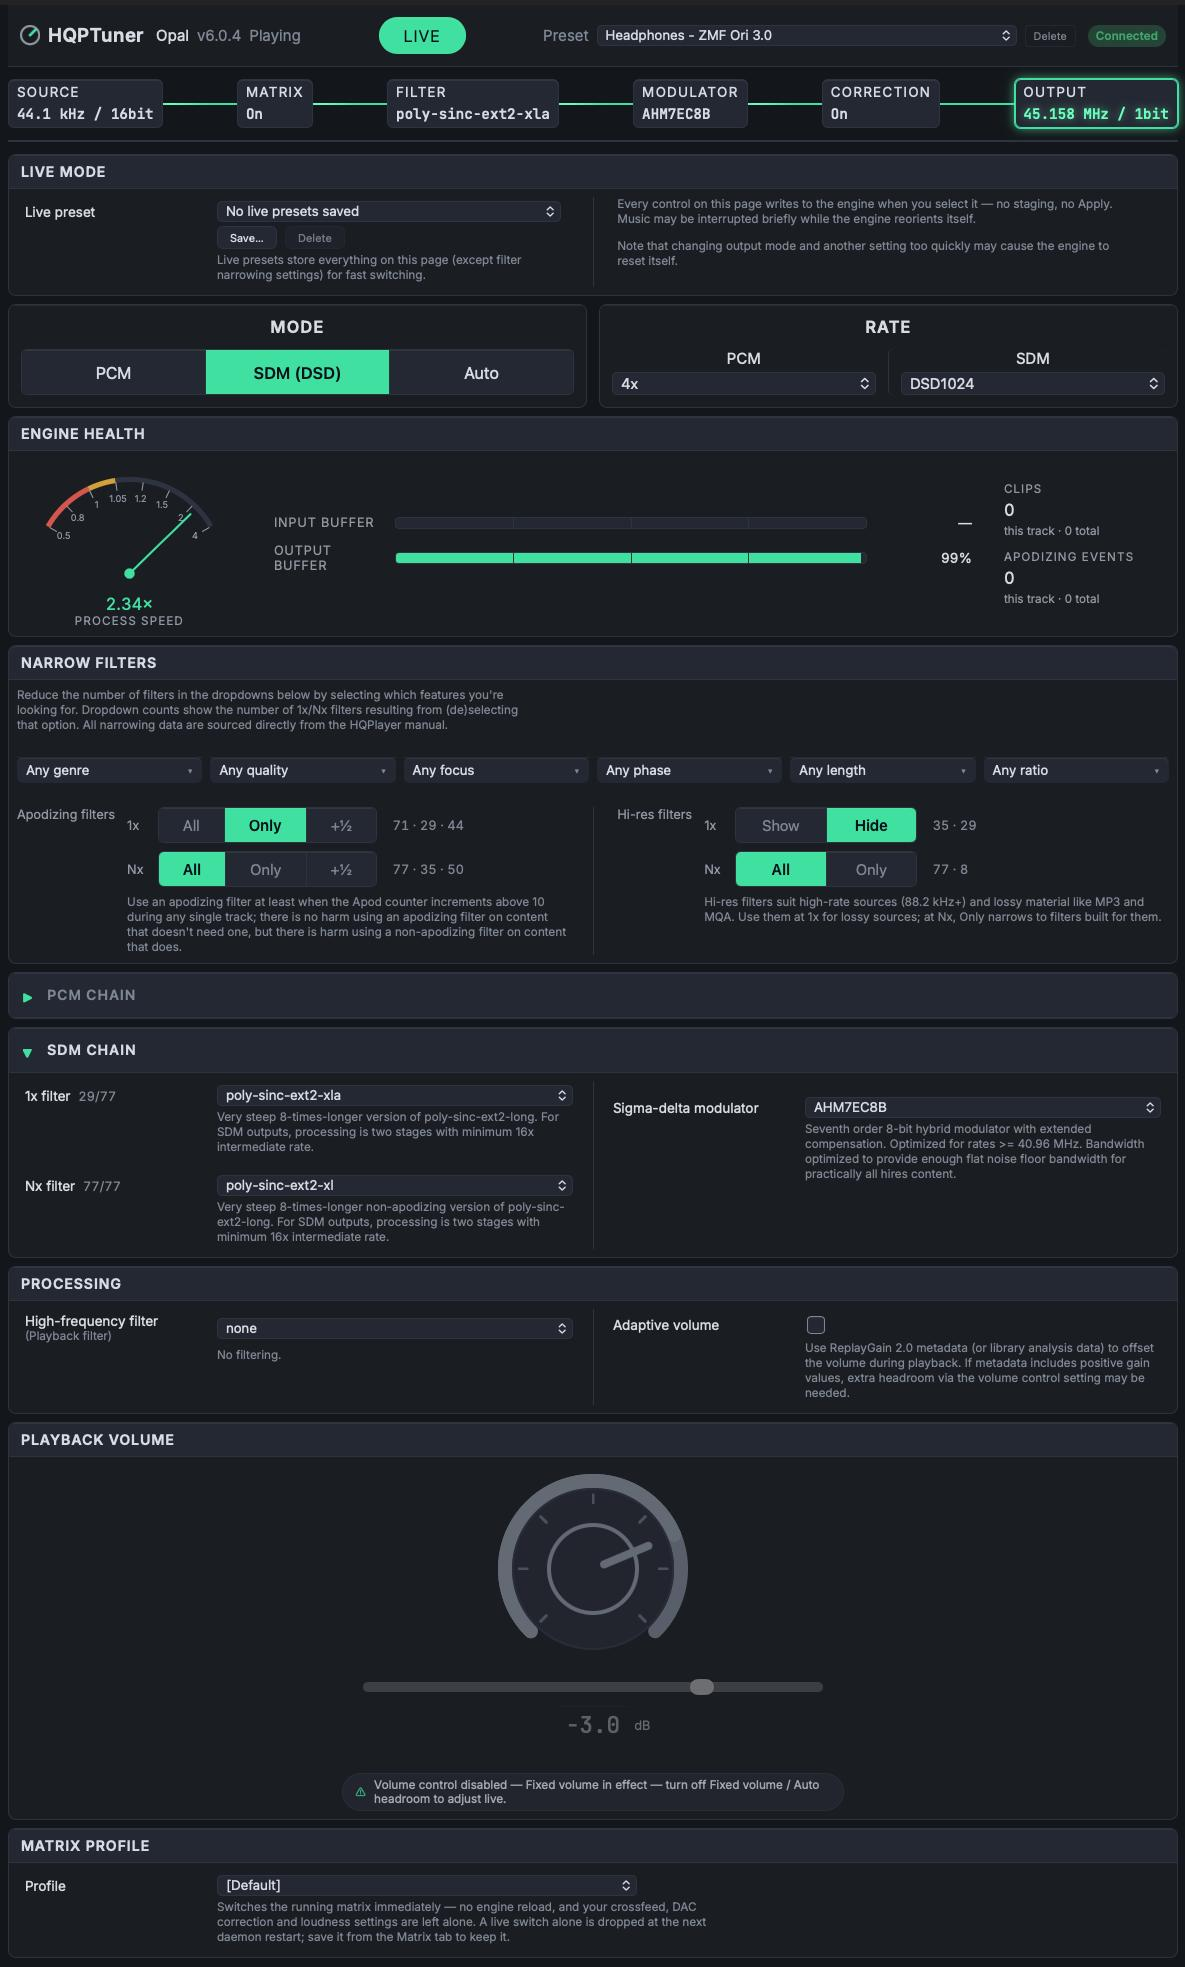
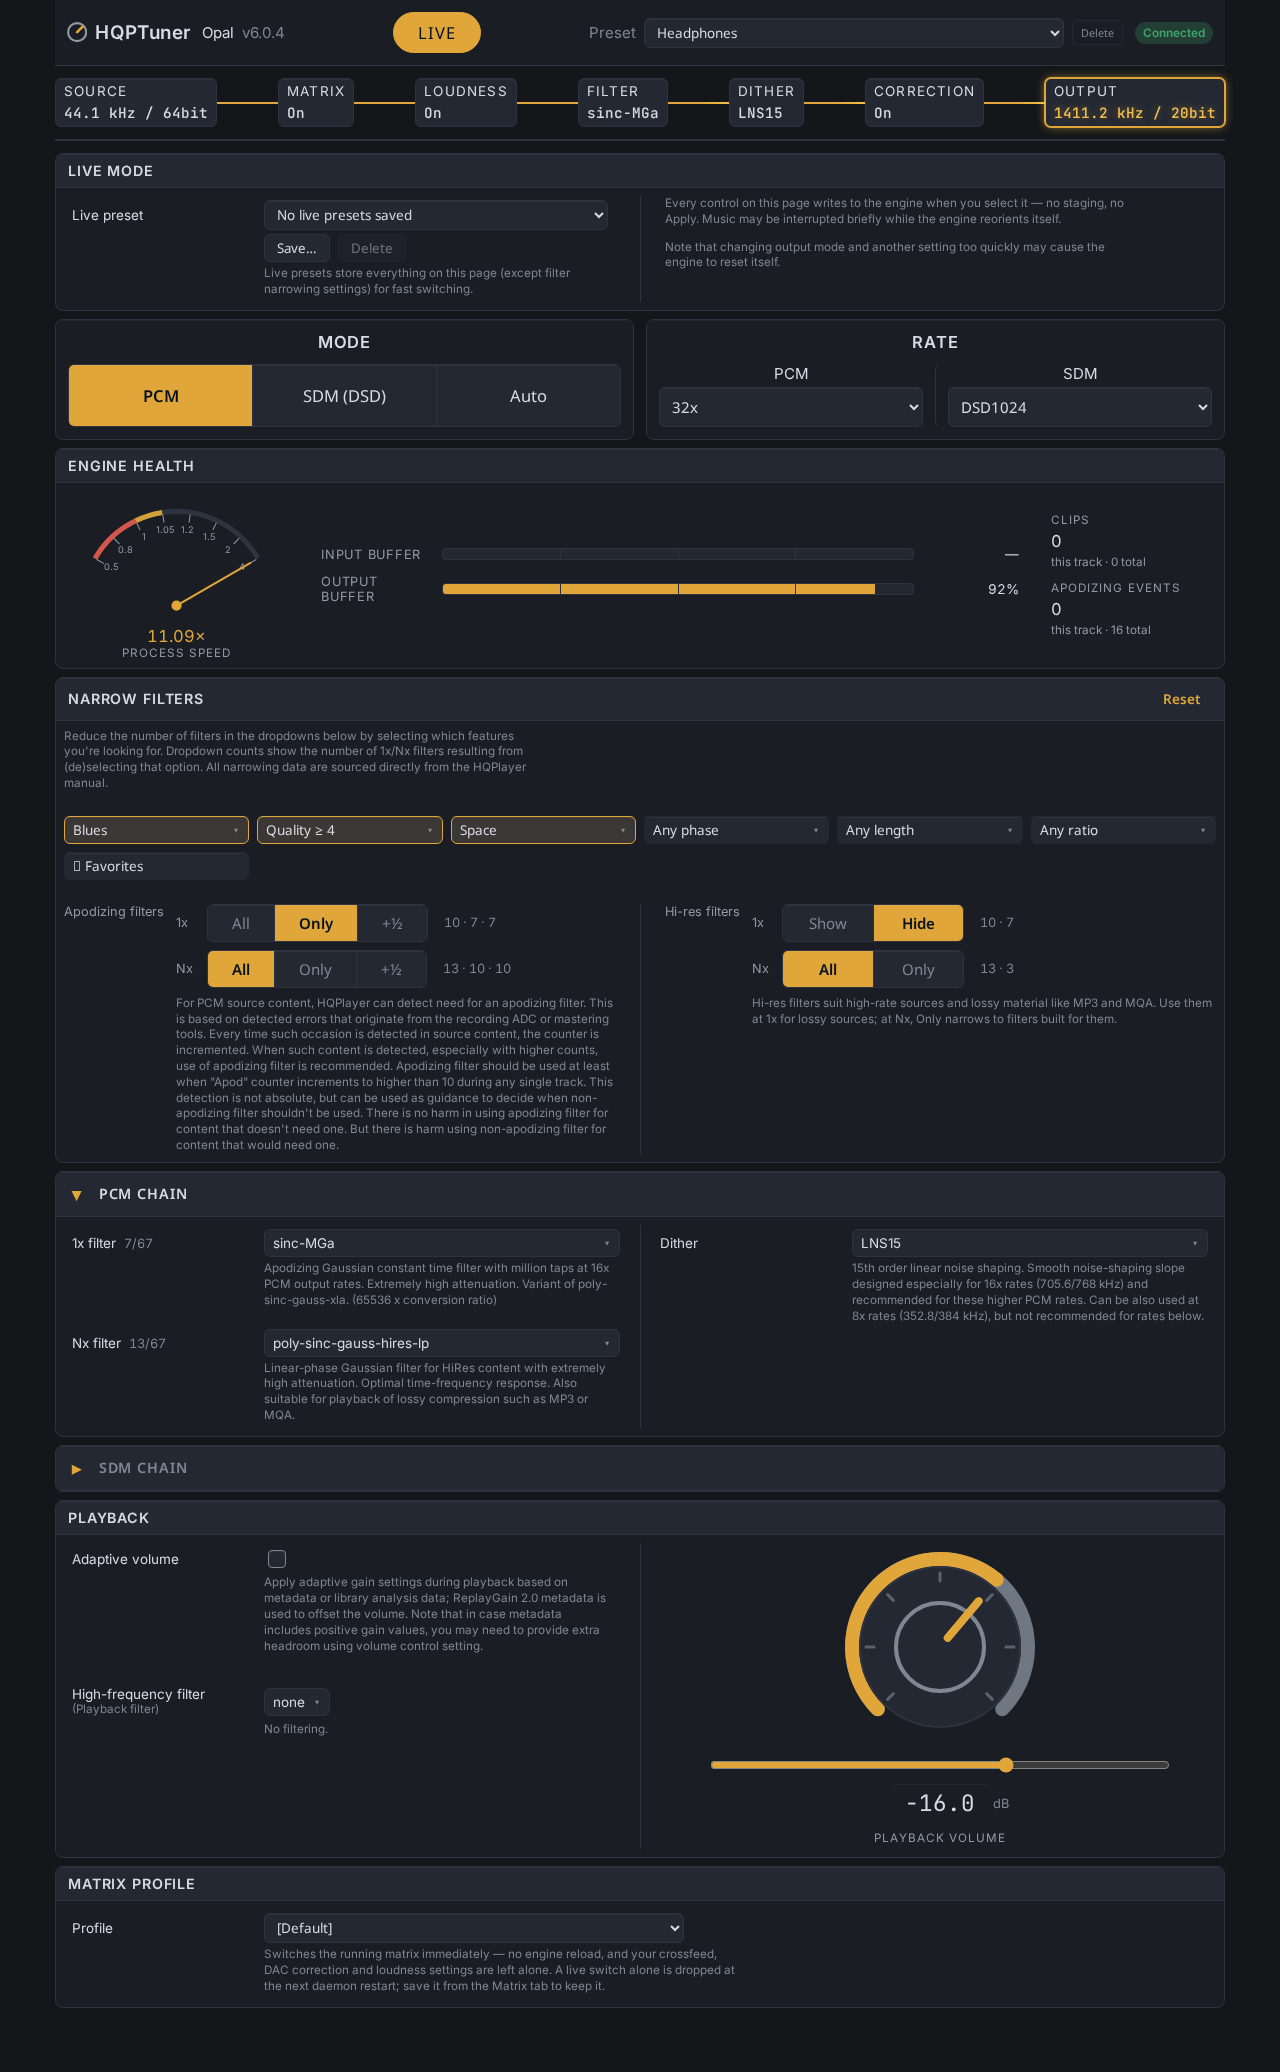
docs(readme): re-shoot screenshots for the four-tab layout
Replaces the Output, LIVE, and Matrix screenshots and adds a Volume one, each full-page at 1280 wide with a different accent and a different playback chain: Output green on 192kHz/24bit to DSD512, Volume blue on 44.1kHz to DSD1024, LIVE amber on 44.1kHz to PCM 32x, Matrix violet on 96kHz to 192kHz.

README text follows: the tab list drops Resampling and Loudness (folded into Output and Volume), captions are rewritten to name the chain in frame, and the accent picker gets a bullet.

diff --git a/README.md b/README.md
@@ -4,7 +4,7 @@ A polished and enhanced configuration interface for HQPlayer Embedded.
 
 ![The Output tab during DSD512 playback](docs/images/hqptuner-v1-output.png)
 
-*The Output tab during DSD512 playback: live signal path across the top, an advisory reading the source's noise profile, Backend / Mode / Rate master switches, and every setting explained in place.*
+*The Output tab, converting a 192kHz/24bit source to DSD512.*
 
 ## Inspiration
 
@@ -35,24 +35,29 @@ HQPTuner offers the following features and improvements over the stock web confi
 The above three features are my flagships, but the following benefits are offered as well:
 
 * **Surface the manual's knowledge**: Every feature has its manual's description printed right underneath it. This can be converted to hover tips for those who prefer a cleaner interface.
-* **More sensible organization**: Settings are organized into five tabs: Output, Volume, Resampling, Matrix, and System.
+* **More sensible organization**: Settings are organized into four tabs: Output, Volume, Matrix, and System. Stop wondering where to find a certain feature.
 * **Easier rate selection**: No more memorizing raw Hz values: select, e.g., PCM 4x or DSD512 from the output rate menu.
 * **Idiot proofing**: Only see options that are appropriate for the settings you're running. Don't waste time trying to figure out the best Integrator if you're only outputting PCM. Running DSD512? Modulators that only work at DSD1024 are grayed out.
 * **Full matrix pipeline editing**: Visual signal-flow editing of matrix pipelines, with a stage editor for every plugin type, headphone EQ import, and live response plots.
 * **Live response plots**: Crossfeed, loudness, and matrix pipelines all render their frequency response as you adjust them — and EQ bands are draggable dots right on the plot, REW-style.
 * **Live volume control**: For those who rely on HQPlayer for volume adjustment.
-* **LIVE mode**: A switch at the top drops the tabs for a single page of everything the running engine can change in place — mode, rate, both filter chains, dither, volume, matrix profile. No Apply: each control writes when you change it. Save the lot as a **live preset** and load it back in one click, output mode included, so a DSD preset applies while PCM is playing by switching the engine over. Nothing on the page is saved to the configuration; it lasts until the daemon restarts.
+* **LIVE mode**: A switch at the top drops the tabs for a single page of everything the running engine can change in place — mode, rate, both filter chains, dither, volume, matrix profile. No Apply: each control writes when you change it. Save the lot as a **live preset** and load it back in one click.
 * **Exposes more options**: Critical hardware acceleration options like multicore DSP, CUDA mode, and E-core modes are all exposed and explained.
 * **Consistent behavior**: No unexpected profile switches or surprise default profile loads; HQPTuner always comes back with the settings you sent.
 * **Log tail in the browser**: The daemon's log, right in the System tab.
+* **Customizable accent color**: Choose from one of four presets, or roll your own with a hex code.
+
+![The Volume tab](docs/images/hqptuner-v1-volume.png)
+
+*The Volume tab.*
 
 ![LIVE mode](docs/images/hqptuner-v1-live.png)
 
-*LIVE mode: engine health, filter narrowing with live per-dropdown counts, both filter chains, playback volume, and matrix profile on one page. No Apply — every control writes as you change it.*
+*LIVE mode. Every control on the page writes to the engine when changed; there is no Apply.*
 
 ![The Matrix tab](docs/images/hqptuner-v1-matrix.png)
 
-*The Matrix tab: sixteen structural-crossfeed pipelines carrying a headphone EQ, the crossfeed model's geometry readout, and the combined result on the Matrix Response plot — each EQ band a draggable dot, with a knob row for the selected one.*
+*The Matrix tab. Sixteen structural-crossfeed pipelines carrying a headphone EQ; the Matrix Response plot at the bottom shows the combined result.*
 
 ## Drawbacks of HQPTuner
 
@@ -194,35 +199,6 @@ All knobs are environment variables (see `hqptuner/config.py`):
 | `HQPTUNER_FAVORITES_FILE` | `state/favorites.json` | Starred filter names, one JSON file shared by every browser |
 | `HQPTUNER_DEBUG_LOG` | unset (off) | Path to the append-only event log. Unset means no file and no records. Set it to record every durable write — staged edits, applies, profile writes, preset writes — as JSON Lines, e.g. `/state/audit.jsonl` in the container |
 | `HQPTUNER_LOG_LEVEL` | `INFO` | Level for ordinary prose logging. A level name, not a number; an unparseable value falls back to `INFO` rather than refusing to start |
-
-## Development
-
-Backend and frontend carry matching gate suites. Run `npm install` once alongside the venv — the JS tooling is dev-only and never ships. The Python dev tools are the `dev` extra:
-
-```sh
-.venv/bin/pip install -e ".[dev]"
-```
-
-
-* `make check` — everything below. Must be green before every commit.
-* `make lint` — Python: ruff, black, xenon complexity, vulture, strict mypy, file-length and test-assertion checks.
-* `make lint-js` — frontend, one-for-one with the above: eslint (ruff), prettier (black), `tsc --checkJs` (mypy), knip (vulture), file-length, plus the CSS design-token (`check_css_tokens.py`) and control-catalog (`check_control_catalog.py`) gates. The complexity ceiling is 10, matching `xenon --max-absolute B`.
-* `make test` — offline Python suite (fake daemons speaking the real wire protocol).
-* `make test-live` — adds `live`-marked tests; needs a reachable hqplayerd.
-* `make test-js` — frontend suite on node's built-in runner. No browser, no bundler: a loader hook reads the importmap out of `index.html` so tests exercise the same vendored preact/htm the browser loads, and components render through `preact-render-to-string`.
-
-Pre-commit runs both lint suites and the Python tests; the JS suite is `make check` only, to keep the commit path from carrying two full suites.
-
-Design and reference docs:
-
-* `docs/architecture.md` — architecture, integration lanes, and the normative rules (enumeration volatility, behavior rules, presets)
-* `docs/protocol.md` — Control API + HTTP lane wire reference (derived from the official MIT-licensed `hqp-control` source, verified against a live daemon)
-* `docs/matrix-spec.md` — matrix pipeline editing design of record, probe findings, delivery checklist
-* `docs/settings-classification.md` — every setting tagged live vs restart
-* `docs/crossfeed-math.md` — structural crossfeed model, derivation, and matrix realization
-* `docs/eq-export.md` — REW / Equalizer APO export format reference
-* `docs/testing.md` — binding testing policy
-* `docs/eq-assistant/eq-assistant-plan.md` — EQ Assistant implementation plan (not yet built), alongside its research base in the same directory
 
 ## Status
 
